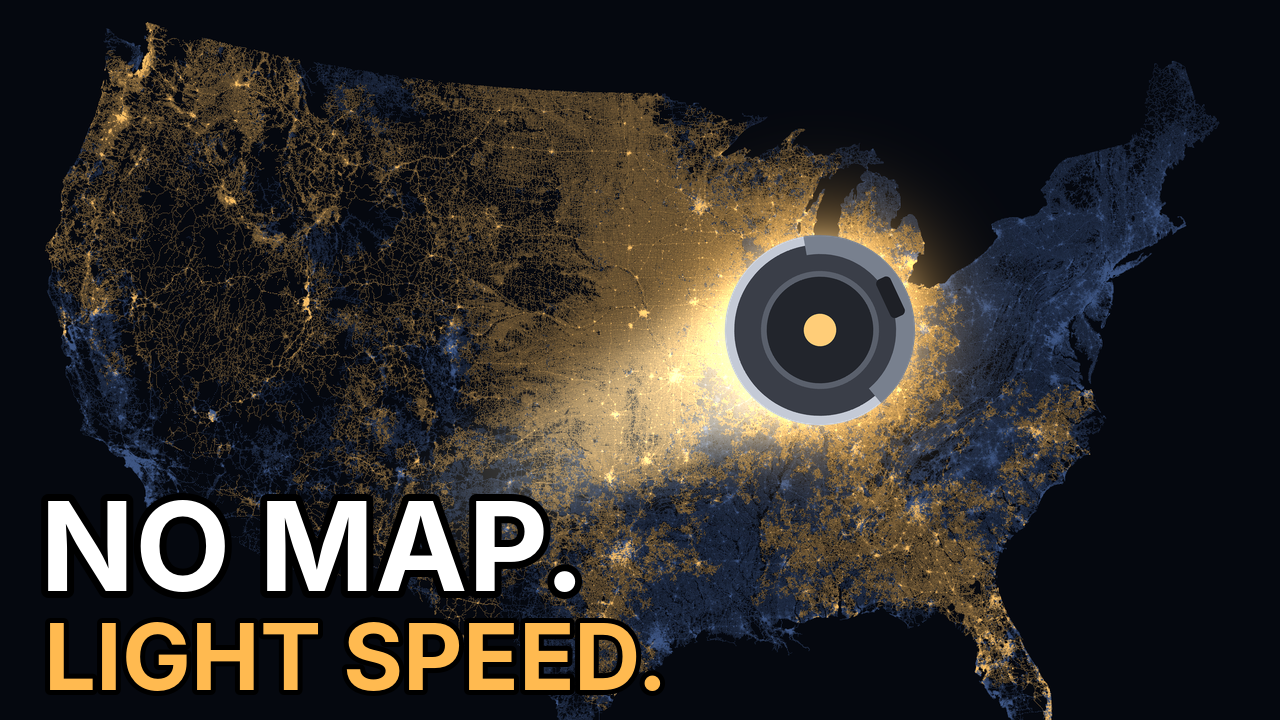
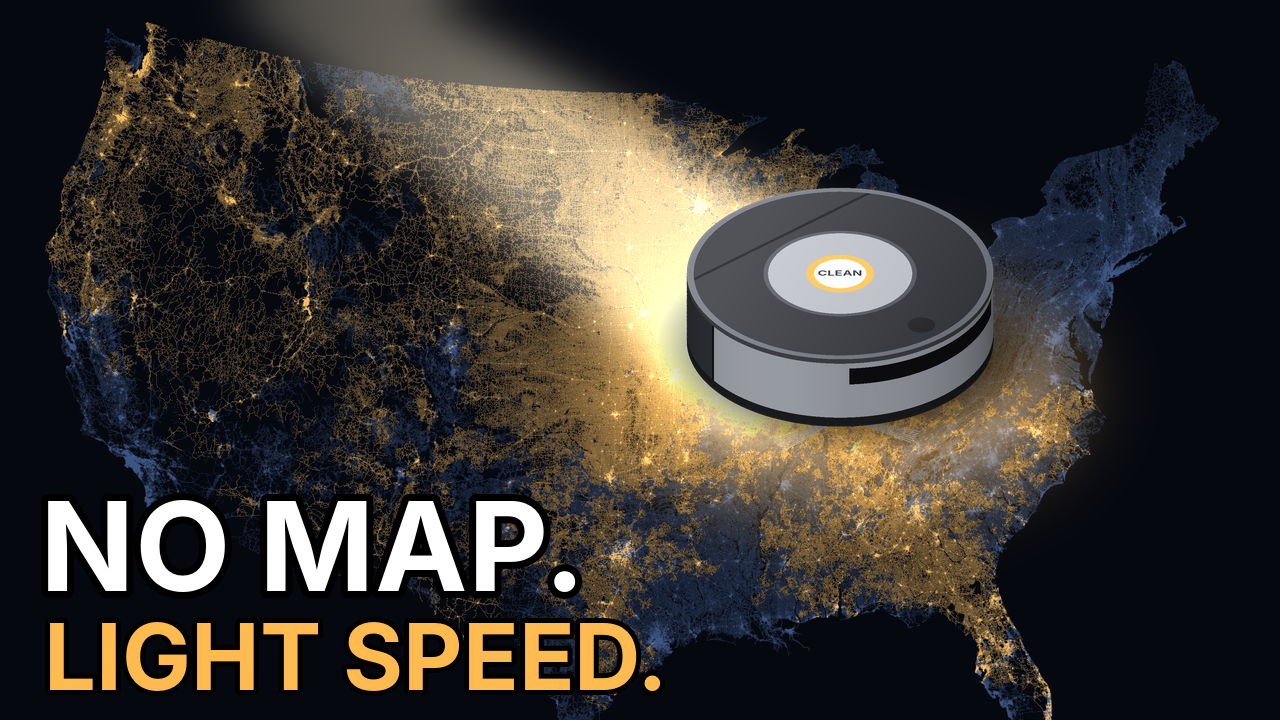
Roomba thumbnails: ray-traced 3/4-view Roomba with a light-speed streak; descriptive titles
Claude-Session: https://claude.ai/code/session_01XkhAiSSQHymERUY1tnE9Vy

Changed region(s): [[0.1875, 0.0, 0.875, 0.7639]]

diff --git a/world_roads/roomba/roomba3d.py b/world_roads/roomba/roomba3d.py
@@ -1,0 +1,168 @@
+"""A robot vacuum in three-quarter view, ray-traced in numpy (for the thumbnails).
+
+The body is a short cylinder (34 cm across, 9 cm tall): a glossy charcoal top with a silver faceplate and a
+lit centre button, a silver bumper around the front half with a dark sensor window, a side brush poking
+out at the front right, and a soft shadow on the ground.
+
+    sprite(width_px, heading_deg) -> RGBA PIL image; heading is where the bumper points on screen
+    (0 = right, 90 = up).
+"""
+import math
+import numpy as np
+from PIL import Image, ImageDraw
+
+H = 0.53                     # height / radius (9 cm / 17 cm)
+ZB = 0.05                    # ground clearance
+ELEV = math.radians(34)      # camera elevation
+
+
+def _norm(v):
+    v = np.asarray(v, float)
+    return v / np.linalg.norm(v)
+
+
+def sprite(width, heading=20.0, led=(255, 196, 96), ss=3):
+    """Robot vacuum seen from 34 degrees up, its front turned `heading` degrees (screen, counter-clockwise from right)."""
+    # camera azimuth chosen so the bumper points along `heading` on screen and faces the viewer a little
+    az = math.radians(-55.0)
+    f = -_norm([math.cos(ELEV) * math.cos(az), math.cos(ELEV) * math.sin(az), math.sin(ELEV)])     # view direction
+    rgt = _norm(np.cross(f, [0, 0, 1]))
+    up = np.cross(rgt, f)
+    # rotate the body so its front (+x) projects to `heading` on screen
+    fx = np.array([rgt @ [1, 0, 0], up @ [1, 0, 0]])
+    rot = math.radians(heading) - math.atan2(fx[1], fx[0])
+    c, s = math.cos(rot), math.sin(rot)
+    R = np.array([[c, -s, 0], [s, c, 0], [0, 0, 1]])        # body -> world
+
+    n = int(width * ss)
+    scale = n / 3.0                                           # 3 radii across the sprite
+    hgt = int(n * 0.86)
+    cx, cy = n / 2, hgt * 0.5
+    jj, ii = np.mgrid[0:hgt, 0:n]
+    u, v = (ii - cx) / scale, (cy - jj) / scale + 0.18
+    O = u[..., None] * rgt + v[..., None] * up - 8 * f        # ray origins (world)
+    Ob = O @ R                                                # in body coordinates (R orthonormal)
+    fb = f @ R
+    zt = ZB + H
+    # top cap
+    t_top = (zt - Ob[..., 2]) / fb[2]
+    P_top = Ob + t_top[..., None] * fb
+    r_top = np.hypot(P_top[..., 0], P_top[..., 1])
+    hit_top = r_top <= 1.0
+    # side wall
+    a = fb[0] ** 2 + fb[1] ** 2
+    b = 2 * (Ob[..., 0] * fb[0] + Ob[..., 1] * fb[1])
+    cc = Ob[..., 0] ** 2 + Ob[..., 1] ** 2 - 1
+    disc = b * b - 4 * a * cc
+    t_side = (-b - np.sqrt(np.maximum(disc, 0))) / (2 * a)
+    P_side = Ob + t_side[..., None] * fb
+    hit_side = (disc >= 0) & (P_side[..., 2] >= ZB) & (P_side[..., 2] <= zt)
+    use_top = hit_top & (~hit_side | (t_top <= t_side))
+    use_side = hit_side & ~use_top
+    body = use_top | use_side
+
+    L = _norm(-0.5 * rgt + 0.25 * up + 0.85 * np.array([0, 0, 1]) - 0.2 * f)     # key light, from the upper left
+    Lb = L @ R
+    V = -fb
+    Hh = _norm(Lb + V)
+    col = np.zeros((hgt, n, 3))
+    alpha = np.zeros((hgt, n))
+
+    # ---- top: charcoal, silver faceplate, lit button, front sensor dome, bin seam, rim highlight
+    th = np.arctan2(P_top[..., 1], P_top[..., 0])
+    alb = np.zeros((hgt, n, 3)) + [40, 42, 47]
+    spec_k = np.full((hgt, n), 0.55)
+    face = (r_top > 0.22) & (r_top < 0.47)
+    alb[face] = [168, 171, 177]
+    spec_k[face] = 0.35
+    alb[(r_top >= 0.47) & (r_top < 0.50)] = [70, 72, 78]
+    btn = r_top <= 0.17
+    alb[btn] = [214, 216, 220]
+    ring = (r_top > 0.17) & (r_top <= 0.22)
+    dome = np.hypot(P_top[..., 0] - 0.80, P_top[..., 1]) < 0.09
+    alb[dome] = [18, 18, 22]
+    spec_k[dome] = 1.0
+    seam = (np.abs(P_top[..., 0] + 0.58) < 0.012) & (r_top > 0.5)
+    alb[seam] = [18, 18, 20]
+    rim = r_top > 0.955
+    alb[rim] = [92, 95, 102]
+    ndl = max(0.0, Lb[2])
+    shade = 0.42 + 0.7 * ndl
+    # a soft window reflection across the glossy lid, brightest toward the upper left
+    refl = np.exp(-(((u + 0.35) * 0.9 + (v - 0.55) * 0.5) ** 2) / 0.10) * 0.0 + np.clip(0.55 - 0.45 * (u - v * 0.6), 0, 1)
+    spec = spec_k * (max(0.0, Hh[2]) ** 40 * 255 + 70 * refl)
+    top_col = alb * shade + spec[..., None]
+    top_col[ring] = np.array(led, float) * 1.05                  # the lit button ring glows (no shading)
+    col[use_top] = top_col[use_top]
+
+    # ---- side: silver bumper over the front half (with a dark sensor window), charcoal at the back
+    ths = np.arctan2(P_side[..., 1], P_side[..., 0])
+    z = P_side[..., 2]
+    Nx, Ny = np.cos(ths), np.sin(ths)
+    ndl_s = np.maximum(0.0, Nx * Lb[0] + Ny * Lb[1] + 0 * Lb[2])
+    ndh_s = np.maximum(0.0, Nx * Hh[0] + Ny * Hh[1])
+    alb_s = np.zeros((hgt, n, 3)) + [52, 54, 60]
+    ks = np.full((hgt, n), 0.35)
+    bump = (np.abs(ths) < math.radians(98)) & (z > ZB + 0.07) & (z < zt - 0.035)
+    alb_s[bump] = [176, 180, 188]
+    ks[bump] = 0.45
+    win = (np.abs(ths) < math.radians(38)) & (z > zt - 0.20) & (z < zt - 0.075)
+    alb_s[win] = [16, 16, 20]
+    ks[win] = 1.0
+    seam_s = bump & (np.abs(np.abs(ths) - math.radians(98)) < 0.02)
+    alb_s[seam_s] = [20, 20, 22]
+    alb_s[(z > zt - 0.035)] = [70, 72, 78]                       # the top's edge band
+    low = z < ZB + 0.07
+    alb_s[low] = [30, 31, 34]
+    ndv_s = np.maximum(0.0, Nx * V[0] + Ny * V[1])                        # fill light from the camera side
+    side_col = alb_s * (0.42 + 0.55 * ndl_s + 0.45 * ndv_s)[..., None] + (ks * ndh_s ** 30 * 255)[..., None]
+    col[use_side] = side_col[use_side]
+    alpha[body] = 1.0
+
+    # ---- ground shadow (soft, offset away from the light)
+    t_g = (0 - Ob[..., 2]) / fb[2]
+    G = Ob + t_g[..., None] * fb
+    sh = np.array([-Lb[0], -Lb[1]]) * 0.25
+    rg = np.hypot(G[..., 0] - sh[0], G[..., 1] - sh[1])
+    sa = np.clip((1.30 - rg) / 0.45, 0, 1) * 0.6
+    col[~body] = 0
+    alpha[~body] = sa[~body]
+
+    img = Image.fromarray(np.dstack([np.clip(col, 0, 255), alpha * 255]).astype(np.uint8), "RGBA")
+    # ---- side brush under the front right (drawn behind the body: only the tips show)
+    br = Image.new("RGBA", img.size, (0, 0, 0, 0))
+    d = ImageDraw.Draw(br)
+
+    def proj(p):
+        w = R @ np.asarray(p, float)
+        return (cx + (w @ rgt) * scale, cy - ((w @ up) - 0.18) * scale)
+
+    hub = np.array([0.66, -0.56, 0.035])
+    for k in range(3):
+        a0 = math.radians(25 + 120 * k)
+        for dt in np.linspace(-0.13, 0.13, 7):
+            tip = hub + 0.52 * np.array([math.cos(a0 + dt), math.sin(a0 + dt), -0.02 / 0.52])
+            d.line([proj(hub), proj(tip)], fill=(205, 205, 200, 255), width=max(1, int(ss * width / 420)))
+    out = Image.alpha_composite(br, img)
+    # "CLEAN" on the button, laid flat on the lid (squashed like the button itself)
+    try:
+        from PIL import ImageFont
+        fnt = ImageFont.truetype("/usr/share/fonts/opentype/inter/Inter-Bold.otf", int(0.085 * scale))
+        lab = Image.new("RGBA", (int(0.5 * scale), int(0.16 * scale)), (0, 0, 0, 0))
+        ImageDraw.Draw(lab).text((lab.width / 2, lab.height / 2), "CLEAN", font=fnt, fill=(70, 74, 82, 255), anchor="mm")
+        sq = up @ np.array([0, 0, 1])                                       # how much the lid is foreshortened
+        lab = lab.resize((lab.width, max(1, int(lab.height * abs(f[2])))), Image.LANCZOS)
+        bx, by = proj(np.array([0, 0, zt]))
+        out.alpha_composite(lab, (int(bx - lab.width / 2), int(by - lab.height / 2)))
+    except OSError:
+        pass
+    # the light ring glows a little beyond the button
+    return out.resize((width, int(hgt / ss)), Image.LANCZOS)
+
+
+if __name__ == "__main__":
+    bg = Image.new("RGBA", (1400, 560), (5, 8, 15, 255))
+    for i, hd in enumerate((20, 160, 60)):
+        sp = sprite(440, hd)
+        bg.alpha_composite(sp, (20 + i * 460, 120))
+    bg.convert("RGB").save("out/roomba3d_test.png")

diff --git a/world_roads/roomba/thumbs.py b/world_roads/roomba/thumbs.py
@@ -22,23 +22,36 @@ def headline(d, xy, s, size, col, anchor="la"):
     d.text(xy, s, font=f(size), fill=col, stroke_width=max(5, size // 16), stroke_fill=(0, 0, 0), anchor=anchor)
 
 
-def glow_roomba(im, x, y, ang, diam):
-    """a big Roomba with a light-speed streak behind it and a gold halo"""
-    a = np.zeros((im.height, im.width), np.float32)
+def hero_roomba(im, x, y, width, heading=-40.0):
+    """a three-quarter-view Roomba centred at (x, y), driving toward `heading` (screen degrees, counter-clockwise
+    from right), with a light-speed streak behind it and a warm glow on the ground"""
     import cv2
-    dx, dy = math.cos(ang), math.sin(ang)
-    for k in range(40):
-        u = k / 40
-        cv2.circle(a, (int(x - dx * diam * 2.6 * u), int(y - dy * diam * 2.6 * u)), int(diam * 0.42 * (1 - 0.6 * u)), 1.0 - u, -1)
-    a = cv2.GaussianBlur(a, (0, 0), diam * 0.12)
-    g = np.zeros_like(a)
-    cv2.circle(g, (int(x), int(y)), int(diam * 0.55), 1.0, -1)
-    g = cv2.GaussianBlur(g, (0, 0), diam * 0.25)
-    arr = np.asarray(im).astype(np.float32)
-    arr = arr + (a * 0.85)[..., None] * np.array([255, 235, 190]) + (g * 0.9)[..., None] * np.array(V.GOLD)
-    im = Image.fromarray(np.clip(arr, 0, 255).astype(np.uint8))
-    maps.draw_roomba(im, x, y, ang, diam=diam)
-    return im
+    import roomba3d
+    arr = np.asarray(im.convert("RGB")).astype(np.float32)
+    h, w = arr.shape[:2]
+    hd = math.radians(heading)
+    dx, dy = math.cos(hd), -math.sin(hd)                        # image coordinates, y down
+    px, py = -dy, dx
+    gy = y + width * 0.10                                       # ground under the body
+    L, r0 = width * 2.8, width * 0.34
+    tail = (x - dx * L, gy - dy * L)
+    streak = np.zeros((h, w), np.float32)
+    poly = np.array([(x + px * r0, gy + py * r0 * 0.55), (x - px * r0, gy - py * r0 * 0.55),
+                     (tail[0], tail[1])], np.int32)
+    cv2.fillPoly(streak, [poly], 1.0, cv2.LINE_AA)
+    # brighter near the robot, fading toward the tail
+    yy, xx = np.mgrid[0:h, 0:w].astype(np.float32)
+    along = ((xx - x) * -dx + (yy - gy) * -dy) / L
+    streak *= np.clip(1 - along, 0, 1) ** 1.6
+    streak = cv2.GaussianBlur(streak, (0, 0), width * 0.05)
+    glow = np.zeros((h, w), np.float32)
+    cv2.ellipse(glow, (int(x), int(gy + width * 0.05)), (int(width * 0.50), int(width * 0.24)), 0, 0, 360, 1.0, -1, cv2.LINE_AA)
+    glow = cv2.GaussianBlur(glow, (0, 0), width * 0.09)
+    arr = arr + streak[..., None] * np.array([255, 236, 196]) * 0.9 + glow[..., None] * np.array(V.GOLD) * 0.6
+    out = Image.fromarray(np.clip(arr, 0, 255).astype(np.uint8)).convert("RGBA")
+    sp = roomba3d.sprite(int(width), heading)
+    out.alpha_composite(sp, (int(x - sp.width / 2), int(y - sp.height / 2)))
+    return out.convert("RGB")
 
 
 def thumb_A():
@@ -47,7 +60,7 @@ def thumb_A():
     U.map.advance(U.block_t[len(U.block_t) // 2])                  # half the blocks driven
     fr = maps.tonemap(U.map.image(gamma=0.42, dim=1.5, fgamma=4.0))
     im = Image.fromarray(fr).crop((150, 70, 1830, 1015)).resize((TW, TH), Image.LANCZOS)
-    im = glow_roomba(im, 820, 330, math.radians(-25), 190)
+    im = hero_roomba(im, 840, 320, 460, -35)
     d = ImageDraw.Draw(im)
     headline(d, (40, 470), "NO MAP.", 124, (255, 255, 255))
     headline(d, (44, 600), "LIGHT SPEED.", 92, V.GOLD)
@@ -62,7 +75,7 @@ def thumb_B():
     C.map.advance(D)
     im = Image.fromarray(maps.tonemap(C.map.image()))
     x, y, ang = C.head(D)
-    im = glow_roomba(im, 900, 250, math.radians(-30), 170)
+    im = hero_roomba(im, 930, 330, 380, -35)
     d = ImageDraw.Draw(im)
     headline(d, (40, 40), "EVERY STREET", 110, V.GOLD)
     headline(d, (44, 160), "IN NEW YORK", 72, (255, 255, 255))
@@ -80,8 +93,7 @@ def thumb_C():
     cx, cy = (lc[0] - 240) * k, (lc[1] - 60) * k
     d = ImageDraw.Draw(im)
     d.ellipse([cx - 64, cy - 64, cx + 64, cy + 64], outline=V.GOLD, width=8)
-    if head is not None:
-        im = glow_roomba(im, (head[0] - 240) * k, (head[1] - 60) * k, head[2], 110)
+    im = hero_roomba(im, cx - 300, cy + 20, 320, -12)                    # heading for the last block (the ring)
     d = ImageDraw.Draw(im)
     headline(d, (40, 40), "THE LAST ROAD", 104, V.GOLD)
     headline(d, (44, 170), "IN AMERICA", 64, (255, 255, 255))

diff --git a/world_roads/media/roomba/YOUTUBE.md b/world_roads/media/roomba/YOUTUBE.md
@@ -3,13 +3,14 @@
 Upload `roomba_photon.mp4` (3:28, 1920×1080, 30 fps, caption-only). Shorts: `roomba_short.mp4`
 (America) and `calgary_short.mp4` (Calgary), both 1080×1920.
 
-**A/B/C test: thumbnails and titles, paired so the title doesn't repeat the thumbnail's words**
+**A/B/C test.** The thumbnails carry the hook; the titles say plainly what the video is (under 100
+characters; the first ~70 show in search).
 
 | | Thumbnail | Title |
 |---|---|---|
-| A | `roomba_thumb_A.png`: Roomba on the half-driven US map, NO MAP. / LIGHT SPEED. | How Long Would a Roomba Take to Drive Every Road in the USA? |
-| B | `roomba_thumb_B.png`: Roomba over New York, EVERY STREET / IN NEW YORK / 1.9 s | What Happens When a Roomba Moves at the Speed of Light? |
-| C | `roomba_thumb_C.png`: Roomba next to the last block, THE LAST ROAD / IN AMERICA | A Light-Speed Roomba Took 2 Hours to Find This One Street |
+| A | `roomba_thumb_A.png`: 3/4-view Roomba streaking across the half-driven US map, NO MAP. / LIGHT SPEED. | How Long Would a Roomba Take to Drive Every Road in America at the Speed of Light? |
+| B | `roomba_thumb_B.png`: Roomba streaking over New York, EVERY STREET / IN NEW YORK / 1.9 s | A Light-Speed Roomba With No Map Drives Every Street in NYC, Then Every Road in the USA |
+| C | `roomba_thumb_C.png`: Roomba heading for the last block on Manasota Key, THE LAST ROAD / IN AMERICA | I Simulated a Roomba Driving Every Road in America at Light Speed (No Map, Random Turns) |
 
 **Description**
 
@@ -60,13 +61,13 @@ Island. Where do you think it would end in your city?"
 
 ## The Shorts
 
-**America** (`roomba_short.mp4`). Title: **How Long Would a Roomba Take to Drive Every Road in America?**
+**America** (`roomba_short.mp4`). Title: **How Long Would a Roomba Take to Drive Every Road in America at Light Speed?**
 
 ```
 At the speed of light, with no map: at every intersection it picks a road at random. This run: 2 h 21 min (2 h 23 min typical of 16 runs). The last block was on a barrier island in Florida. At a real Roomba's top speed: 163,000 years. Full video on the channel.
 ```
 
-**Calgary** (`calgary_short.mp4`). Title: **A Roomba With No Map Drives Every Street in Calgary**
+**Calgary** (`calgary_short.mp4`). Title: **A Roomba With No Map Drives Every Street in Calgary at the Speed of Light**
 
 ```
 At the speed of light, picking a road at random at every intersection: 1.24 seconds (the median of 200 runs). At a real Roomba's top speed it would take 24 years. Every road in America is in the full video.
